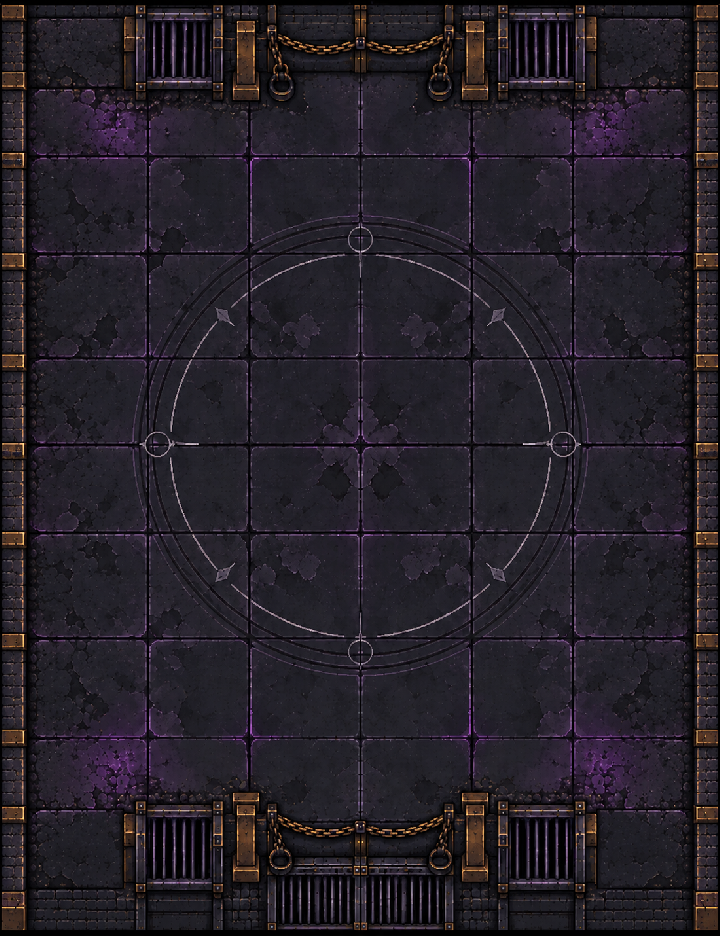
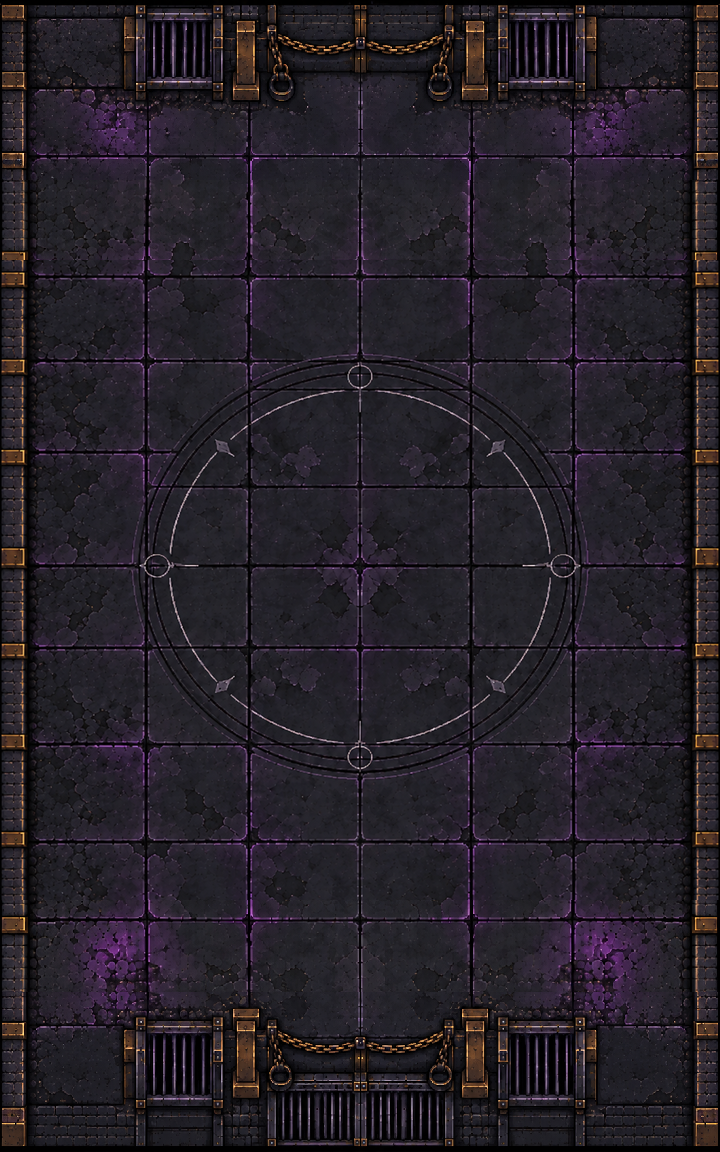
구치소 바닥을 세로 720×1152 로 — 가운데를 새로 그려 늘린다
- 원이 하나, 원래 크기 그대로. 가운데 812줄은 전부 새로 그린 줄(복사·반복 0)
- 위 180 · 아래 160 줄은 원본과 픽셀까지 같다
- 1·2차는 원본 줄을 복사·흔들어 채워 무늬가 잘리고 세로로 번졌다 — 둘 다 반려
- 3차는 이음매를 원본과 흐리게 섞어 위쪽 줄무늬 · 아래쪽 기둥 유령이 생겨 그 두 구간만 재발주
- 아래 이음 줄 변화량이 평소의 1.90배(원본 같은 경계는 1.18배)지만 줄눈(8~10배)보다 훨씬 약하고 2배 확대에서 안 보인다
- 발주서: Projects/AVSR/_exchange/order_roomfloor_tall_fix.md (원본 936 판은 git HEAD 에서 떠서 줬다)

Changed region(s): [[0.0, 0.0, 1.0, 1.0]]

diff --git a/Projects/AVSR/_exchange/order_roomfloor_tall_fix.md b/Projects/AVSR/_exchange/order_roomfloor_tall_fix.md
@@ -1,0 +1,44 @@
+# 재발주 (4차) — `roomfloor_env_holding.png` 이음매 두 곳만 고친다 (720 × 1152)
+
+## 3차는 거의 통과했다
+
+3차 납품(`Projects/AVSR/_exchange/in/roomfloor_env_holding.png`)의 **가운데는 합격**이다.
+원이 하나, 크기 그대로, 타일 · 좌우 벽이 이어지고, 새 줄 812/812 · 반복 0 도 맞다.
+**그 가운데는 건드리지 마라.** 고칠 곳은 위 · 아래 이음매 둘뿐이다.
+
+## 무엇이 틀렸나 (2배로 확대해 봤다)
+
+| 자리 | 문제 |
+|---|---|
+| **위 이음매** — 줄 **170 ~ 205** | 좌우 타일(가로 약 x 30~185, x 535~690) 윗가장자리가 **세로 줄무늬로 번진 띠**가 됐다. 원본 같은 자리는 깨끗하다 |
+| **아래 이음매** — 줄 **960 ~ 992** | 아래 담장 기둥 머리(주황 쇠붙이, 약 x 230~255 · x 465~490)가 **반투명 유령**처럼 한 번 더 비친다. 좌우 타일도 세로로 번졌다 |
+
+원인은 이음매를 **원본과 겹쳐 흐리게 섞은 것**(크로스페이드 · 알파 섞기)이다.
+
+## 어떻게 고치나
+
+1. 3차 판을 바탕으로 한다
+2. 줄 **260 ~ 900** 은 3차 **그대로** 둔다 (픽셀까지 같게)
+3. 맨 위 180 줄 · 맨 아래 160 줄은 원본(`Projects/AVSR/_exchange/out/roomfloor_936/roomfloor_env_holding.png`) **그대로**
+4. 줄 **180 ~ 260** 과 **900 ~ 992** 만 다시 그린다 — 그림 생성 · 편집으로
+   - 원본의 마지막 줄(위: 179 · 아래: 992 에서 시작하는 담장)에서 **타일이 줄눈에서 딱 끊겨 새 타일이 시작**되게 그린다
+   - **섞기 · 흐리기 · 반투명 겹치기 금지.** 원본을 비쳐 보이게 깔지 마라 — 유령이 거기서 생긴다
+   - 원본 줄을 복사 · 반복 · 늘리는 것도 여전히 금지
+
+## 검수 기준 (내가 이렇게 잰다)
+
+1. 720 × 1152, 완전 불투명 RGB
+2. 위 180 · 아래 160 줄이 원본과 픽셀까지 같다
+3. 줄 260 ~ 900 이 3차와 픽셀까지 같다
+4. 가운데 812 줄 중 원본에 없는 새 줄이 절반 이상, 같은 줄 반복 0
+5. 이음 줄(180 · 992) 색 차이가 평소 줄 차이의 1.5배 이하
+6. **번짐 없음** — 줄 160 ~ 1000 을 16 줄 창으로 **4 줄씩 밀며** (세로 색 변화 ÷ 가로 색 변화)를 재면
+   **모든 창이 0.50 이상** (원본 바닥을 같은 식으로 재면 가장 낮은 창이 0.50 이다. 3차는 줄 168 · 172 에서 시작하는 창이 0.49 · 0.40 이었다)
+7. 2배로 확대해 봐서 **기둥 유령 · 줄무늬 없음**
+
+## 내보내는 곳
+
+`Projects/AVSR/_exchange/in/roomfloor_env_holding.png` 로 덮어쓴다. 잠겨 있으면 `Projects/AVSR/_exchange/in/_generated/` 에.
+이 한 장만. 작업 스크립트 · 임시 파일은 프로젝트 밖에서 쓰고 지운다.
+
+API 키를 쓰는 CLI 폴백은 쓰지 마라.
